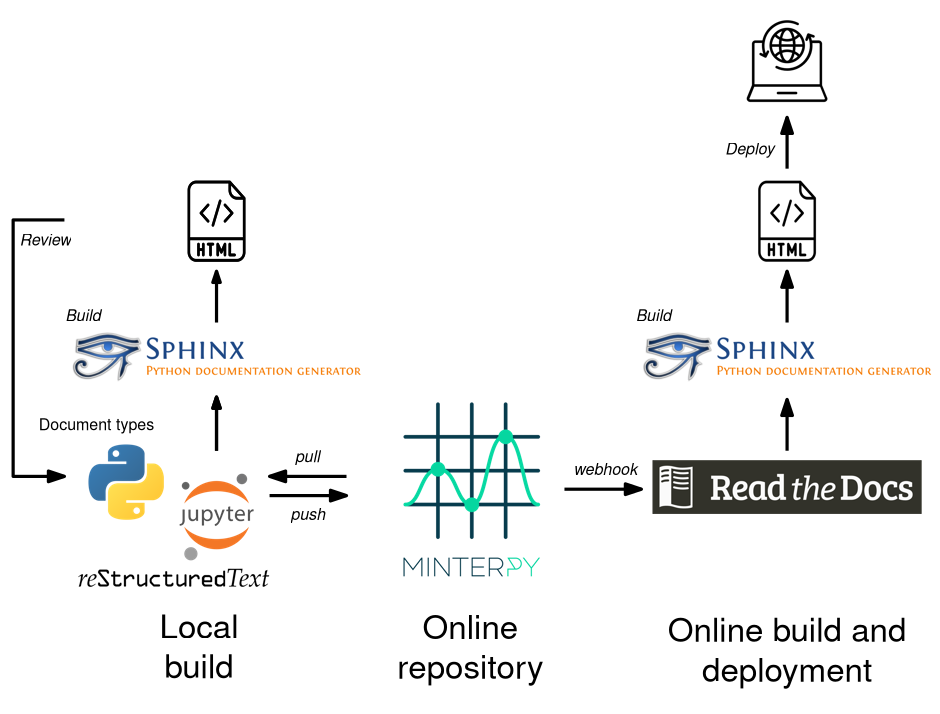
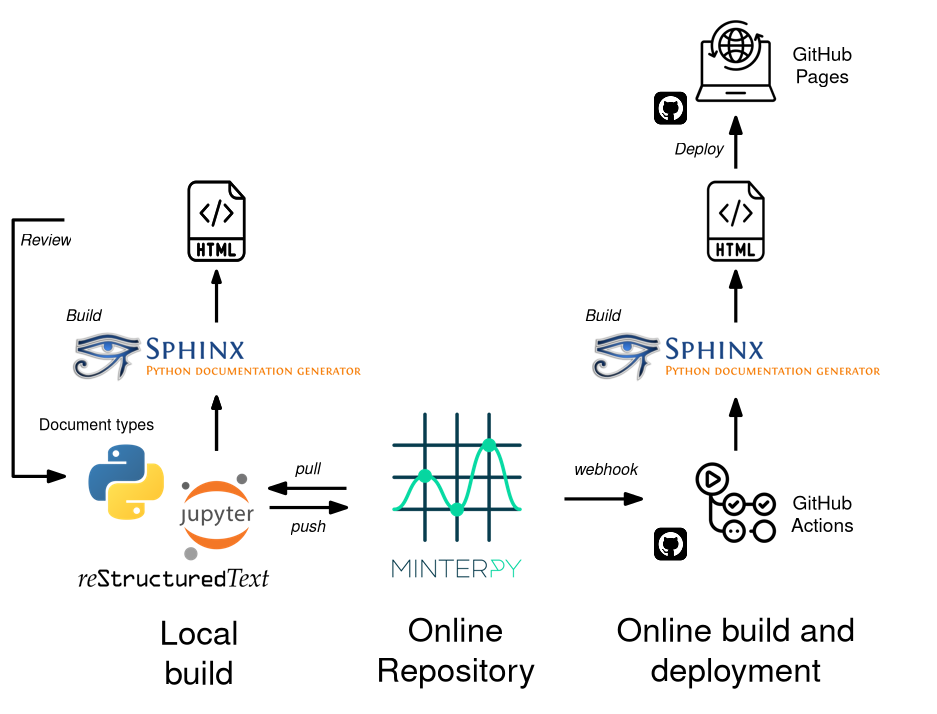
Fix stale information on the contributors guide
Some of the documentation tooling mentioned
in the contributors guide is obsolete and
has been updated.

This commit should resolve Issue #28.

diff --git a/docs/contributors/contrib-docs/docs-tools.rst b/docs/contributors/contrib-docs/docs-tools.rst
@@ -23,7 +23,7 @@ Documentation generator
 We use the `Sphinx documentation generator`_ to build the documentation
 as HTML files [#]_
 These HTML files can be viewed or deployed (published) as a static website
-using a hosting service such as `Read the Docs`_ [#]_.
+using a hosting service such as `Read the Docs`_ or `GitHub Pages`_.
 
 reStructuredText markup language
 ================================
@@ -69,7 +69,7 @@ Building and deploying the documentation
 ========================================
 
 The figure below illustrates the different components and processes involved
-in building the ``minterpy`` docs.
+in building the Minterpy documentation.
 
 .. figure:: /assets/images/contributors/documentation-tooling.png
   :align: center
@@ -91,13 +91,12 @@ while Jupyter notebooks use Markdown.
 
 .. rubric:: Footnotes
 .. [#] Other formats like PDF are also possible.
-.. [#] `Read the Docs`_ actually runs an instance of Sphinx to build the docs
-       online before serving it.
 
 .. _docs-like-code framework: https://www.docslikecode.com/
 .. _same repository: https://gitlab.hzdr.de/interpol/minterpy
 .. _Sphinx documentation generator: https://www.sphinx-doc.org/en/master/
 .. _Read the Docs: https://readthedocs.org/
+.. _GitHub Pages: https://pages.github.com
 .. _reStructuredText (reST): https://www.sphinx-doc.org/en/master/usage/restructuredtext/basics.html
 .. _docstrings: https://www.python.org/dev/peps/pep-0257/
 .. _PEP 287: https://www.python.org/dev/peps/pep-0287/

diff --git a/docs/contributors/about-us.rst b/docs/contributors/about-us.rst
@@ -92,7 +92,7 @@ and code reviews.
         <td align="center"><a href="https://www.casus.science/team-members/daniel-kotik/"><img src="https://gitlab.hzdr.de/uploads/-/system/user/avatar/577/avatar.png" width="100px;" alt=""/><br /><sub><b>Daniel Kotik</b></sub></a><br />
             <a href="#infra-kotik79" title="Infrastructure">🚇</a>
         </td>
-        <td align="center"><a href="https://www.casus.science/de-de/team-members/1119-2/"><img src="https://www.casus.science/backend/wp-content/uploads/2020/10/Michal_Bajda_.jpg" width="68px;" alt=""/><br /><sub><b>Michał Bajda</b></sub></a><br />
+        <td align="center"><a href="https://www.casus.science/de-de/team-members/1119-2/"><img src="https://www.casus.science/wp-content/uploads/elementor/thumbs/Michal-Bajda-qtlth4bpkblwb6yqzo50r16g1m8t17omsfeahji5t4.png" width="100px;" alt=""/><br /><sub><b>Michał Bajda</b></sub></a><br />
             <a href="#logo-michal" title="Logo design">🎨</a>
         </td>
       </tr>
